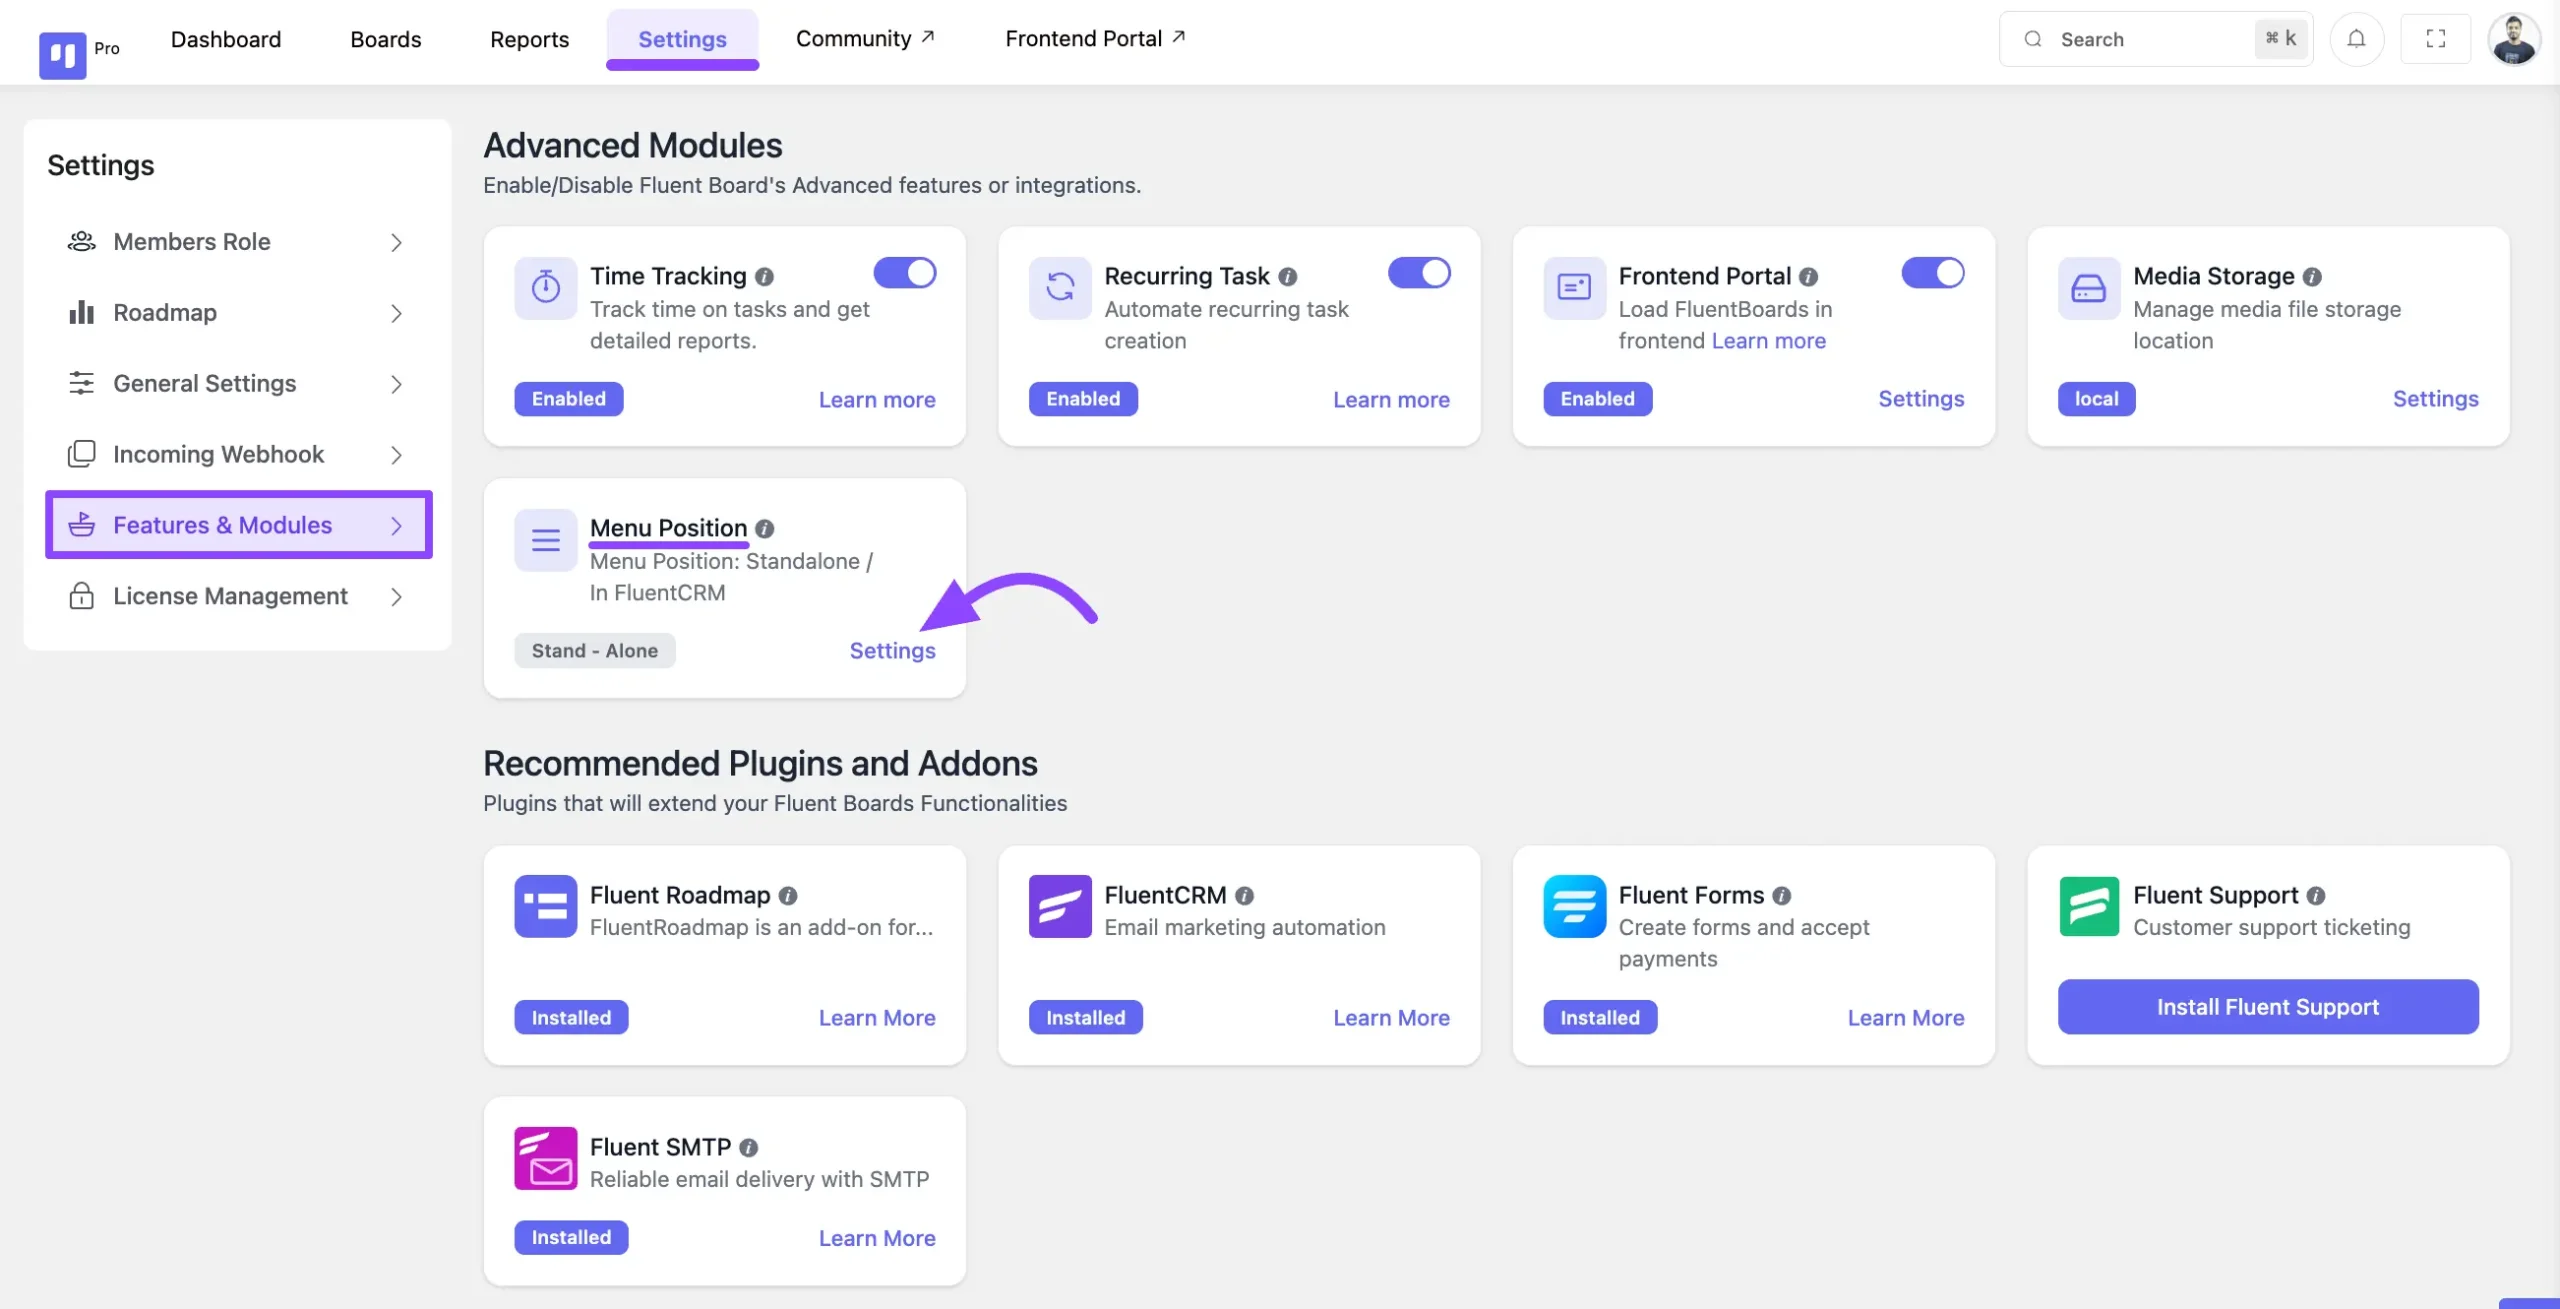
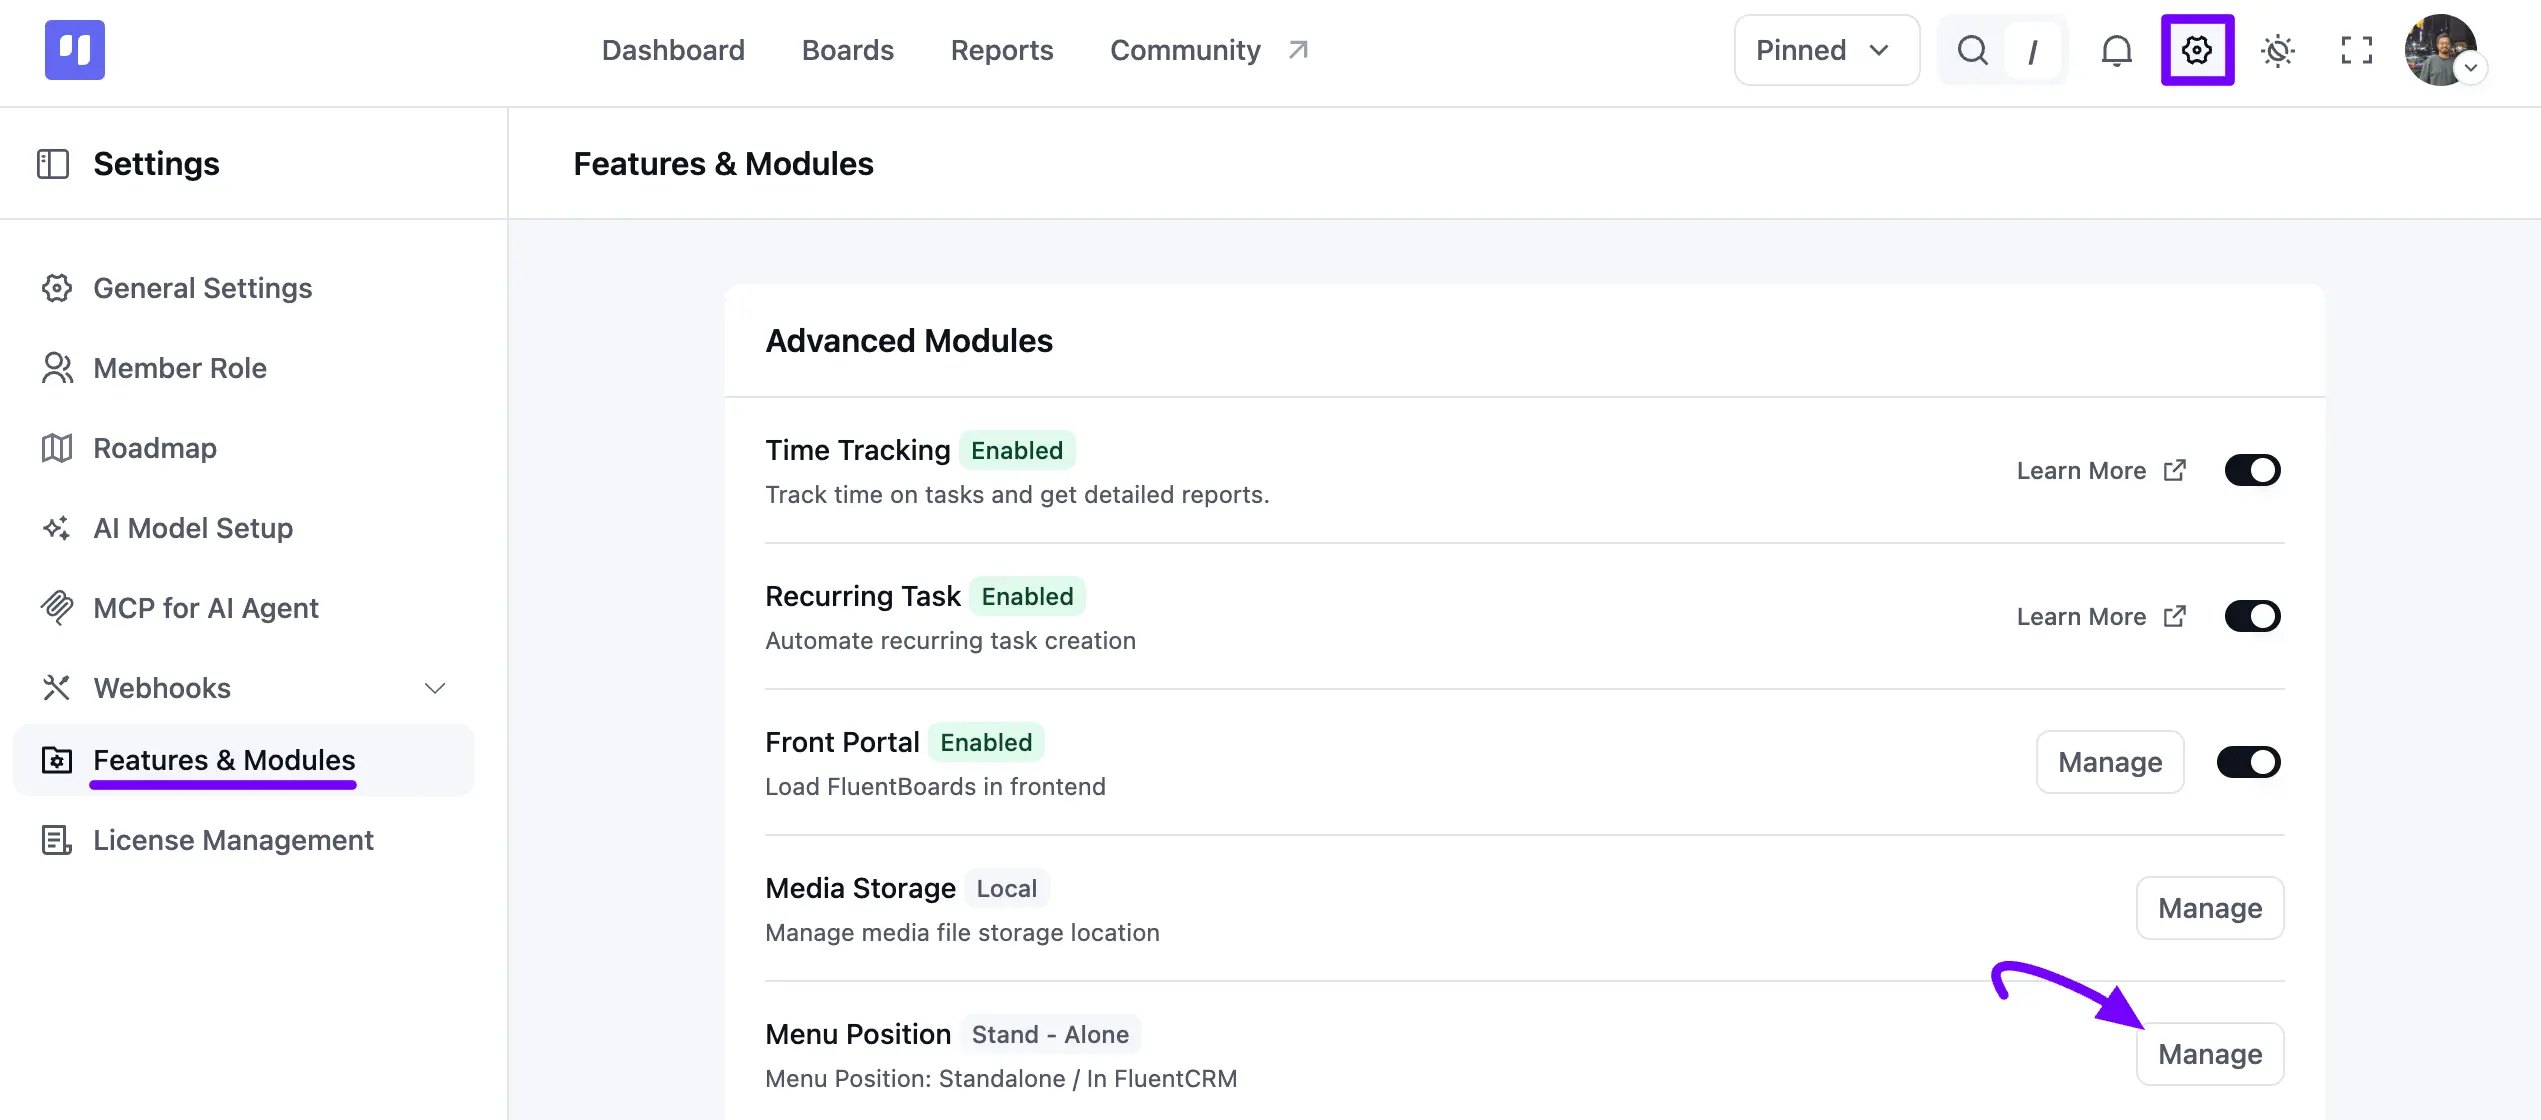
update Menu Position in WordPress doc

diff --git a/docs/settings/fluentboards-menu-position-in-wordpress.md b/docs/settings/fluentboards-menu-position-in-wordpress.md
@@ -4,24 +4,25 @@ You can customize the position of FluentBoards in your WordPress Dashboard. You 
 
 In this guideline, we will show you how you can customize the FluentBoards position.
 
-First, go to your FluentBoards and select **Settings>Feature & Module**. Here the **Menu Position** option is available.
+First, go to your FluentBoards and select **Settings > Features & Modules**. Under **Advanced Modules**, you'll find the **Menu Position** option.
 
-Select the **Settings** of **Menu Position**.
+Click the **Manage** button next to **Menu Position**.
 
 ![adjust menu position](../public/images/settings/fluentboards-menu-position-in-wordpress/Adjust-menu-position-scaled.webp)
 
 ## Append In FluentCRM Menu
 
-A popup will appear. If you want to keep your FluentBoards in the FluentCRM plugin menu then select the **Append in FluentCRM Menu**.
+A **Menu Position** pop-up will appear. Under **Menu Position Type**, if you want to keep your FluentBoards in the FluentCRM plugin menu then select **Append in FluentCRM Menu**.
 
 ![append in fluentcrm](../public/images/settings/fluentboards-menu-position-in-wordpress/append-in-FluentCRM-scaled.webp)
 
 ## **Show as Standalone**
 
-To show the FluentBoards in your WordPress left sidebar Menu select **Show as Standalone** and select the **Menu Position Priority**.
+To show the FluentBoards in your WordPress left sidebar Menu, select **Show as Standalone** instead. Then use the **Menu Position Priority** stepper to set where it appears in the sidebar.
+
+Lastly, click on the **Save** button to save.
 
 ![show as standalone](../public/images/settings/fluentboards-menu-position-in-wordpress/show-as-standalone-scaled.webp)
 
-Lastly, click on the **Save Settings** button to save.
 
-If you have any further questions, concerns, or suggestions, please do not hesitate to contact our [support](https://wpmanageninja.com/support-tickets/?utm_source=wpmn&utm_medium=home&utm_campaign=site#/){:target="_blank"} team.
+
